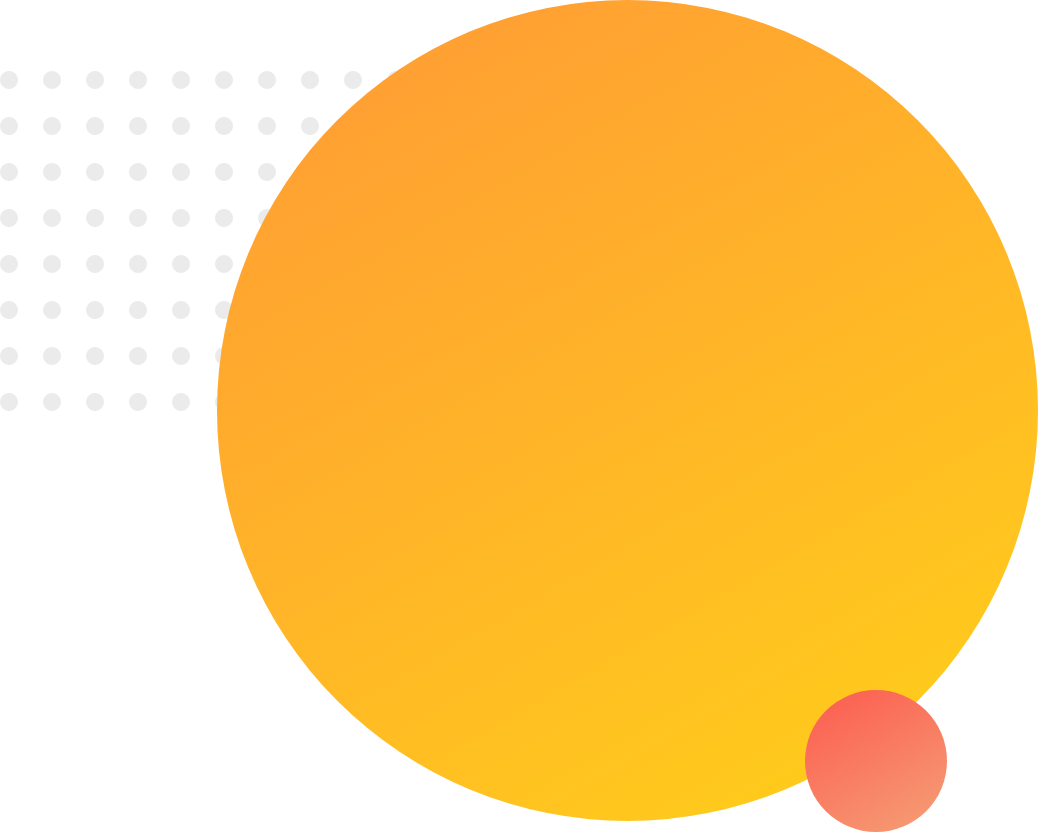
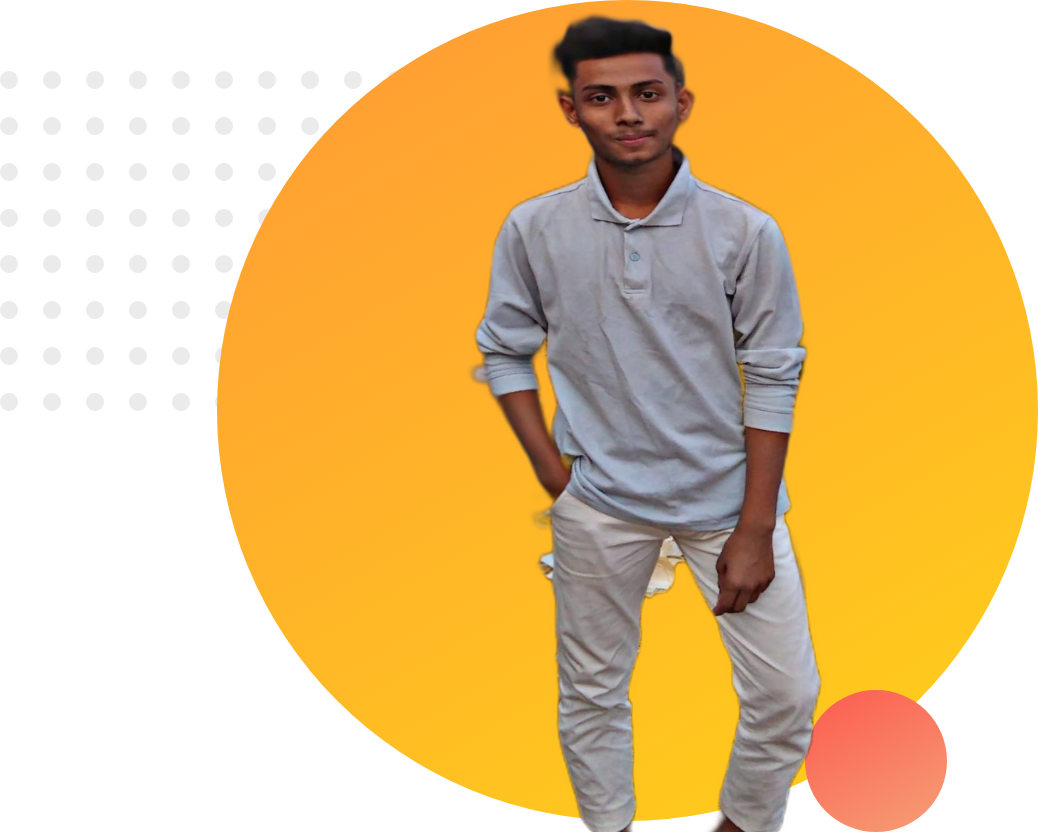
adding head

Changed region(s): [[0.4316, 0.0, 0.8015, 1.0]]

diff --git a/index.html b/index.html
@@ -27,5 +27,26 @@
         </div>
         </section>
 
+        <section class="dream-area">
+
+
+
+<div class=" half-width">
+    <img src="images/image 11.png" alt="">
+</div>
+
+
+
+<div class=" half-width">
+<h2>My Big Dream</h2>
+<h3>Become a professional Web Devloper </h3>
+<p>I Already learn the basic html and css. Now my target is learn advance level css.Now I make simple website easily.My goal is to build 3 website with html and css.</p>
+<a class="link-button" target="_blank" href="www.e.g.saidulislam345@gmail.com"> Hire Me</a>
+
+</div>
+
+
+        </section>
+
 </body>
 </html>

diff --git a/style.css b/style.css
@@ -29,6 +29,7 @@ img{
 }
 section{
     height: 400px;
+    padding-bottom: 100px;
     
 }
 .link-button{
@@ -38,4 +39,13 @@ section{
     border-radius: 5px;
     color: whitesmoke;
     font-weight: 700;
+}
+
+h2{
+    font-weight: 700;
+    font-family: cursive;
+    color: salmon;
+}
+h3{
+    color: gray;
 }
